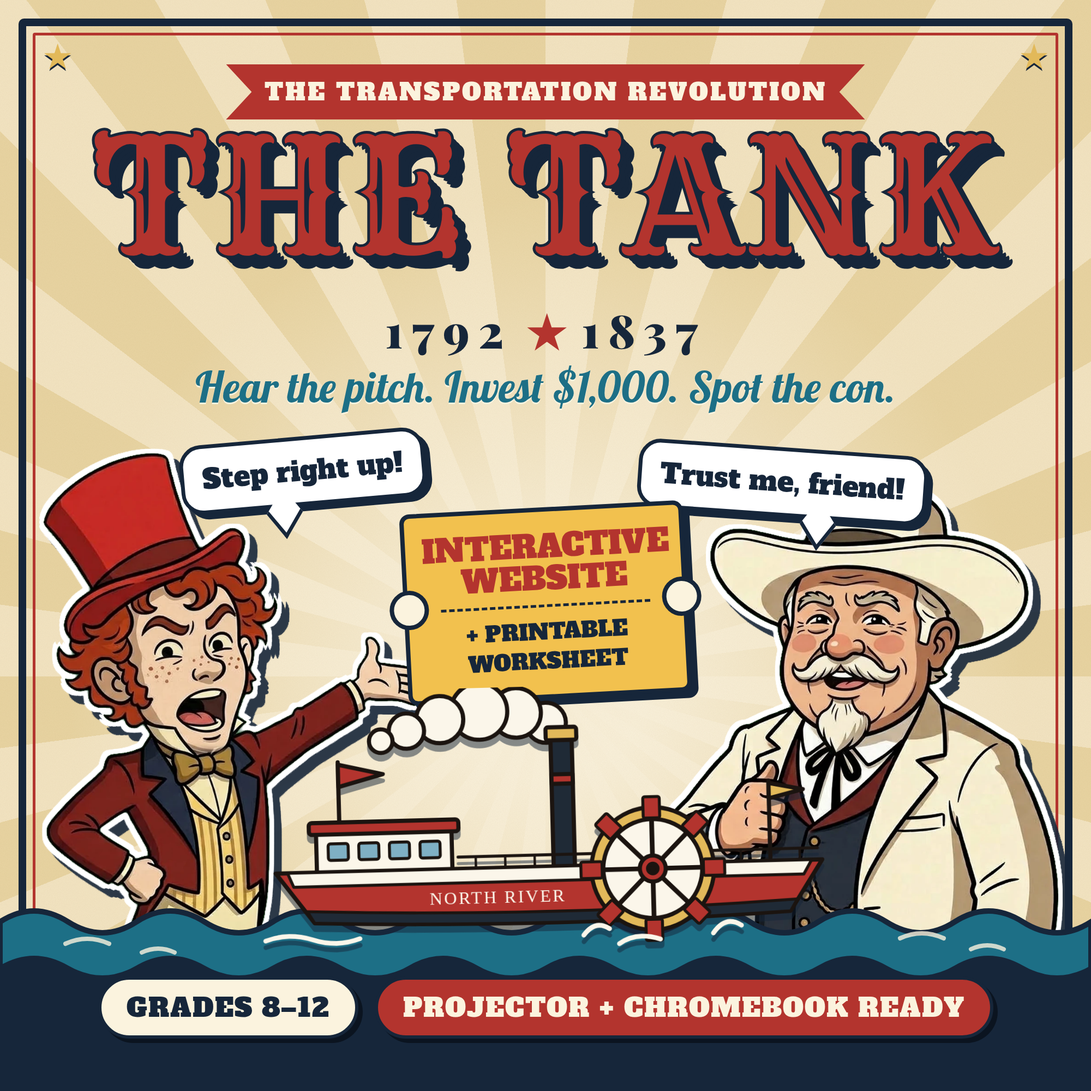
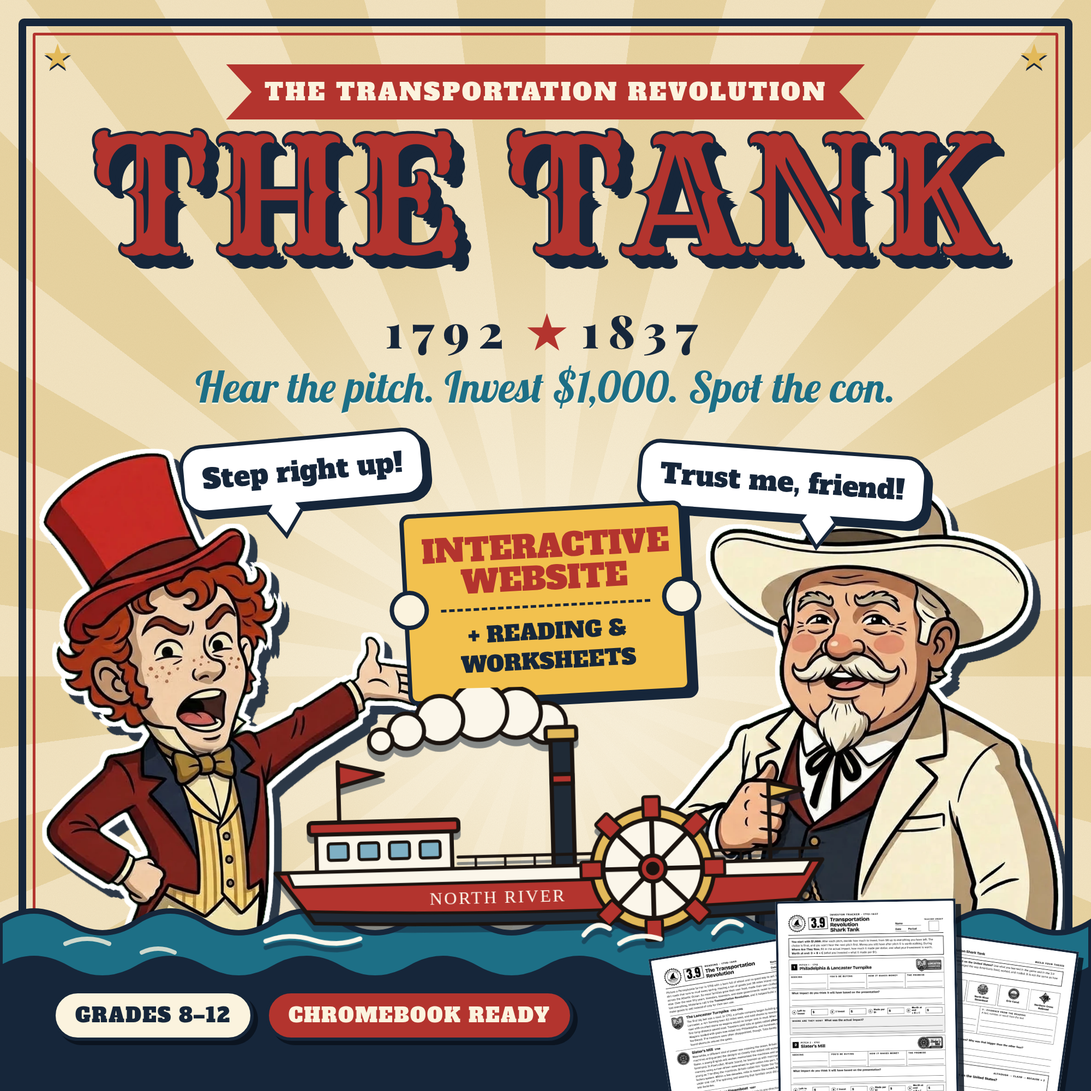
TpT: feature the reading, tracker and thesis handouts
- Thumbnail: ticket now says "+ Reading & Worksheets", three handout
  pages fan up from the bottom corner, badges moved left.
- New preview-printables image: reading, check for understanding,
  investor tracker, final tally and thesis builder.
- Preview uses the real Investor Tracker; description lists the reading,
  Check Your Understanding, tracker and Build Your Thesis activity.
- Reveal text aligned with the reading: Erie Canal tolls repaid the cost
  in about ten years; Slater's machines ran from 1790, mill building 1793.

Claude-Session: https://claude.ai/code/session_01Hqzdn3VmzzuJm757ToWGs5

Changed region(s): [[0.031, 0.806, 0.992, 1.0], [0.403, 0.558, 0.589, 0.62]]

diff --git a/brand/tpt/preview-printables.html b/brand/tpt/preview-printables.html
@@ -1,0 +1,42 @@
+<!doctype html>
+<html lang="en">
+<head>
+<meta charset="utf-8">
+<title>TpT Preview: Printables</title>
+<link rel="stylesheet" href="../../css/fonts.css">
+<style>
+  :root { --cream: #f4e6c4; --cream-2: #ead6a4; --paper: #fbf3de; --red: #b3342e; --navy: #16263a; --gold: #e2b95a; --teal: #1d6f86; }
+  * { box-sizing: border-box; }
+  html, body { margin: 0; }
+  body { width: 1920px; height: 1080px; overflow: hidden; position: relative; font-family: 'Atkinson Hyperlegible', sans-serif;
+    background: repeating-conic-gradient(from 0deg at 50% 118%, var(--cream) 0 5deg, var(--cream-2) 5deg 10deg); }
+  .top { position: absolute; left: 0; right: 0; top: 38px; text-align: center; }
+  .kick { display: inline-block; background: var(--red); color: var(--paper); font-family: 'Alfa Slab One', serif; font-size: 30px; letter-spacing: 4px; padding: 12px 44px;
+    clip-path: polygon(0 0, 100% 0, 97% 50%, 100% 100%, 0 100%, 3% 50%); box-shadow: 0 6px 0 var(--navy); }
+  h1 { margin: 14px 0 0; font-family: 'Rye', serif; font-weight: 400; font-size: 92px; color: var(--navy); letter-spacing: 3px; line-height: 1; }
+  h1 span { color: var(--red); }
+  .row { position: absolute; left: 50px; right: 50px; top: 262px; display: flex; justify-content: space-between; align-items: flex-start; }
+  .page { width: 352px; text-align: center; }
+  .sheet { position: relative; background: #fff; border: 3px solid var(--navy); box-shadow: 12px 12px 0 var(--navy); }
+  .sheet img { display: block; width: 100%; }
+  .page:nth-child(odd) .sheet { transform: rotate(-1.6deg); }
+  .page:nth-child(even) .sheet { transform: rotate(1.4deg); }
+  .cap { margin-top: 40px; font-family: 'Rye', serif; font-size: 36px; color: var(--red); line-height: 1.05; }
+  .cap small { display: block; font-family: 'Atkinson Hyperlegible', sans-serif; font-weight: 700; font-size: 24px; color: var(--navy); margin-top: 10px; line-height: 1.25; }
+  .foot { position: absolute; left: 0; right: 0; bottom: 34px; display: flex; justify-content: center; gap: 18px; }
+  .pill { background: var(--navy); color: var(--paper); border-radius: 40px; padding: 12px 30px; font-family: 'Alfa Slab One', serif; font-size: 25px; letter-spacing: 1px; }
+  .pill.red { background: var(--red); }
+</style>
+</head>
+<body>
+  <div class="top"><div class="kick">PRINT &amp; GO</div><h1>Printables <span>included</span></h1></div>
+  <div class="row">
+    <div class="page"><div class="sheet"><img src="handouts/reading-1.jpg" alt=""></div><div class="cap">The Reading<small>All five ventures in plain, grade-level language</small></div></div>
+    <div class="page"><div class="sheet"><img src="handouts/reading-2.jpg" alt=""></div><div class="cap">Check for Understanding<small>Multiple choice + true or false</small></div></div>
+    <div class="page"><div class="sheet"><img src="handouts/tracker-1.jpg" alt=""></div><div class="cap">Investor Tracker<small>Notes, predictions and investment math for every pitch</small></div></div>
+    <div class="page"><div class="sheet"><img src="handouts/tracker-final.jpg" alt=""></div><div class="cap">Final Tally<small>Total worth + Looking Back questions</small></div></div>
+    <div class="page"><div class="sheet"><img src="handouts/thesis.jpg" alt=""></div><div class="cap">Thesis Builder<small>Although &rarr; claim &rarr; because &times; 2</small></div></div>
+  </div>
+  <div class="foot"><div class="pill">GRADES 8&ndash;12</div><div class="pill red">GAME + READING + WRITING</div><div class="pill">NO PREP</div></div>
+</body>
+</html>

diff --git a/brand/tpt/thumbnail.html b/brand/tpt/thumbnail.html
@@ -52,9 +52,15 @@
   .sea svg { position: absolute; inset: 0; width: 100%; height: 100%; }
   .boat { position: absolute; left: 50%; bottom: 245px; width: 1080px; transform: translateX(-50%) rotate(-1.5deg); filter: drop-shadow(0 12px 0 rgba(22,38,58,.5)); }
   .boat img { width: 100%; display: block; }
-  .bottom { position: absolute; left: 0; right: 0; bottom: 96px; display: flex; justify-content: center; gap: 30px; }
-  .pill { background: var(--paper); color: var(--navy); border: 6px solid var(--navy); border-radius: 60px; padding: 18px 46px; font-family: 'Alfa Slab One', serif; font-size: 48px; letter-spacing: 2px; box-shadow: 8px 8px 0 #0b1420; }
+  .bottom { position: absolute; left: 96px; bottom: 92px; display: flex; gap: 22px; z-index: 6; }
+  .pill { background: var(--paper); color: var(--navy); border: 6px solid var(--navy); border-radius: 60px; padding: 16px 36px; font-family: 'Alfa Slab One', serif; font-size: 36px; letter-spacing: 2px; box-shadow: 8px 8px 0 #0b1420; }
   .pill.red { background: var(--red); color: var(--paper); }
+.sheets { position: absolute; right: 0; bottom: 0; width: 800px; height: 420px; z-index: 5; }
+  .sheet { position: absolute; width: 330px; background: #fff; border: 4px solid var(--navy); box-shadow: 10px 10px 0 rgba(11,20,32,.85); }
+  .sheet img { display: block; width: 100%; }
+  .s1 { left: 20px; top: 150px; transform: rotate(-9deg); }
+  .s2 { left: 420px; top: 140px; transform: rotate(8deg); }
+  .s3 { left: 225px; top: 70px; transform: rotate(-1deg); z-index: 2; }
 </style>
 </head>
 <body>
@@ -72,7 +78,7 @@
   <div class="bubble b1">Step right up!</div>
   <div class="bubble b2">Trust me, friend!</div>
 
-  <div class="ticket"><div class="t1">INTERACTIVE<br>WEBSITE</div><div class="dash"></div><div class="t2">+ PRINTABLE WORKSHEET</div></div>
+  <div class="ticket"><div class="t1">INTERACTIVE<br>WEBSITE</div><div class="dash"></div><div class="t2">+ READING &amp; WORKSHEETS</div></div>
 
   <div class="sea">
     <svg viewBox="0 0 2000 430" preserveAspectRatio="none">
@@ -84,6 +90,11 @@
     </svg>
   </div>
   <div class="boat"><img src="steamboat.svg" alt=""></div>
-  <div class="bottom"><div class="pill">GRADES 8&ndash;12</div><div class="pill red">PROJECTOR + CHROMEBOOK READY</div></div>
+  <div class="sheets">
+    <div class="sheet s1"><img src="handouts/reading-1.jpg" alt=""></div>
+    <div class="sheet s2"><img src="handouts/thesis.jpg" alt=""></div>
+    <div class="sheet s3"><img src="handouts/tracker-1.jpg" alt=""></div>
+  </div>
+  <div class="bottom"><div class="pill">GRADES 8&ndash;12</div><div class="pill red">CHROMEBOOK READY</div></div>
 </body>
 </html>

diff --git a/brand/tpt/preview.html b/brand/tpt/preview.html
@@ -53,7 +53,7 @@
   <div class="label l-main">&#9733; VOICED PITCHES + ILLUSTRATED EXHIBITS</div>
   <div class="shot s1"><img src="shots/qa.jpg" alt=""></div>
   <div class="shot s2"><img src="shots/paper.jpg" alt=""></div>
-  <div class="shot ws"><img src="shots/ws1.jpg" alt=""></div>
+  <div class="shot ws"><img src="handouts/tracker-1.jpg" alt=""></div>
   <div class="label l1">GRILL THE PROMOTER</div>
   <div class="label l2">WHERE ARE THEY NOW?</div>
     <img class="emblem" src="../logos/the-tank-badge.png" alt="">

diff --git a/brand/tpt/description.md b/brand/tpt/description.md
@@ -1,8 +1,8 @@
-# The Tank: Transportation Revolution Investing Game | Interactive Website + Worksheet
+# The Tank: Transportation Revolution Investing Game | Interactive Website + Reading, Worksheet & Thesis
 
 **Your students are the sharks.** It's 1792 to 1837, and every student has $1,000. Five promoters walk into The Tank to pitch real ventures of the Transportation Revolution. After each pitch, students grill the promoter and decide on the spot how much to invest. Four ventures really succeeded. One was a real failure, sold with a con artist's tricks. Can your class spot it before the money's gone?
 
-This is a ready-to-run interactive website for your projector, plus a printable worksheet. There's nothing to install and no student logins.
+It comes as a ready-to-run interactive website for your projector, plus a student reading with a check for understanding, an Investor Tracker worksheet and a thesis-writing activity. There's nothing to install and no student logins.
 
 ---
 
@@ -11,7 +11,7 @@ This is a ready-to-run interactive website for your projector, plus a printable 
 1. **Meet the promoter.** Each one walks on stage with the year, the place, what they're selling, and a quick prospectus: what you'd be buying, how it makes money, and the promise.
 2. **Hear the pitch.** A fully voiced 90-second pitch with word-by-word captions. As the promoter talks, illustrated **exhibits** appear on the easel (maps, diagrams, how-it-works art), so students see exactly what they're investing in.
 3. **Grill the promoter.** The class picks 2 of 6 prewritten questions. The answers appear in the promoter's own voice, and they hide real clues: honest admissions, dodges, pressure tactics and vague promises.
-4. **Make your offer.** Students invest anywhere from $0 to everything they have left, and record it on their worksheet. It's final, and they won't hear the next pitch first. Money left over at the end is worth nothing.
+4. **Make your offer.** Students invest anywhere from $0 to everything they have left, and record it on their Investor Tracker. It's final, and they won't hear the next pitch first. Money left over at the end is worth nothing.
 5. **Where are they now?** A newspaper from the years that followed reveals each venture's real outcome. A **Why It Mattered** screen then covers the key concepts and the impact on the nation. The game ends with a **Big Picture** timeline that ties the whole Transportation Revolution together.
 
 ---
@@ -39,10 +39,22 @@ The ventures, dates and facts are real. The promoters are fictional characters.
 - A Big Picture timeline (1794–1860) and an 1840 "Lowell mills" transportation challenge
 - A how-to-play screen that pops up for students
 
-**Printable investor worksheet** (2 pages)
-- Note-taking for each pitch: promised benefit, what I can verify, red flags, and a running balance
-- Where Are They Now math table with simple whole-number scoring
-- Four debrief questions
+**Student reading: "The Transportation Revolution"** (2 pages)
+- A grade-level reading on the Lancaster Turnpike, Slater's Mill, the North River Steamboat, the Erie Canal and the Northern Cross Railroad
+- A Big Picture section on Henry Clay's American System, internal improvements, and how the North, Midwest and South grew apart
+- **Check Your Understanding:** 6 multiple-choice questions and 6 true-or-false questions
+
+**Investor Tracker student worksheet**
+- For every pitch: Seeking, You'd Be Buying, How It Makes Money and The Promise, matching what students see on screen
+- "What impact do you think it will have?" prediction lines
+- Simple investment math boxes: left to invest, I invest, made per $1, worth at end
+- "Where Are They Now? What was the actual impact?" lines for the reveal
+- My total worth at the end, plus four Looking Back reflection questions
+
+**Build Your Thesis writing activity**
+- Students choose which venture had the biggest impact on the United States
+- Evidence from the game and evidence from the reading
+- A guided thesis frame (Although → Claim → because → and) with a self-check list
 
 **Teacher tools** (password-protected)
 - Set the pitch order for each class period (shuffle it so the railroad isn't always last)
@@ -59,11 +71,7 @@ The ventures, dates and facts are real. The promoters are fictional characters.
 
 ## Easy math
 
-Every venture has a whole-number **profit per $1** (for example, +$3 or −$1).
-- **Profit = what I invested × profit per $1.**
-- **Money now = what I invested + profit.**
-
-No decimals and no percentages. Every student can do it.
+Every venture reveals how much it **made per $1** as a whole number, for example +$3, or −$1 for the bust. Students just multiply: **what I invested × made per $1**. No decimals and no percentages. Every student can do it.
 
 ---
 
@@ -73,17 +81,18 @@ No decimals and no percentages. Every student can do it.
 - Telling fact from hype, and spotting red flags like pressure tactics, vague promises and unnamed "satisfied customers"
 - Cause and effect: how turnpikes, factories, steamboats, canals and railroads changed the economy and connected the nation
 - Economic decision-making under uncertainty
+- Reading comprehension and evidence-based argument writing
 
-**Standards connections:** C3 Framework D2.His.1, D2.His.14, D2.Eco.1; CCSS RH.6-8.8 (distinguish fact, opinion and reasoned judgment) and RH.6-8.2 / RH.9-10.2.
+**Standards connections:** C3 Framework D2.His.1, D2.His.14, D2.Eco.1; CCSS RH.6-8.8 (distinguish fact, opinion and reasoned judgment), RH.6-8.2 / RH.9-10.2, and WHST.6-8.1 / WHST.9-10.1 (write arguments).
 
 ---
 
 ## Details
 
 - **Grades:** 8–12 (U.S. History, the early republic and the market revolution)
-- **Time:** about 60–75 minutes. Run it as one block, or split it: pitches on day 1, Where Are They Now on day 2.
+- **Time:** 2–3 class periods. Day 1: the reading and Check Your Understanding. Day 2: the game and Where Are They Now. Day 3 (or homework): Build Your Thesis. The game alone takes about 60–75 minutes.
 - **Tech:** a projector and a browser. No logins, accounts or downloads. For catch-up mode, one device per absent student.
-- **Pairs well with** a reading on the Transportation Revolution. Several pitch claims can be checked against a standard textbook section.
+- **Built to work together:** students can check the promoters' claims against the included reading, then use both the game and the reading as evidence in their thesis.
 
 ---
 
